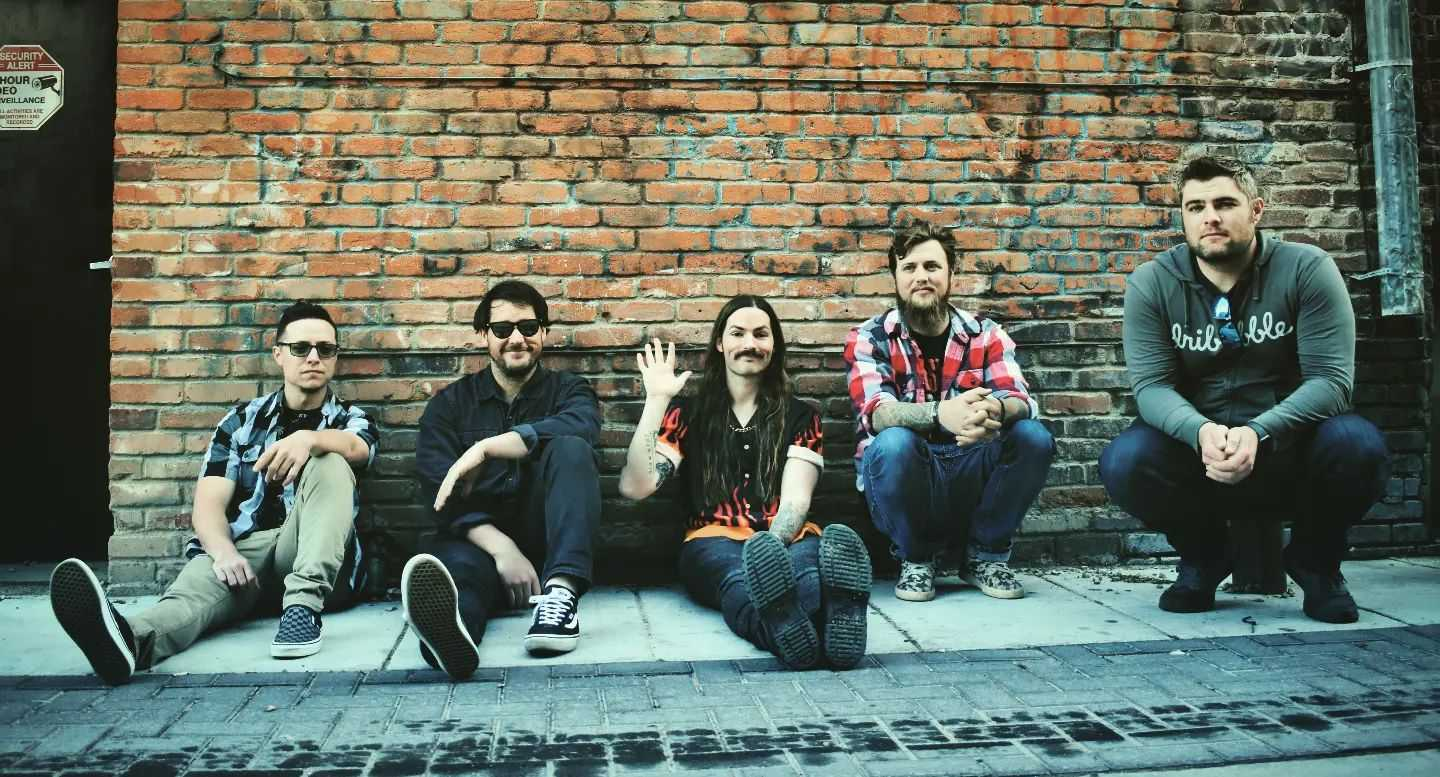
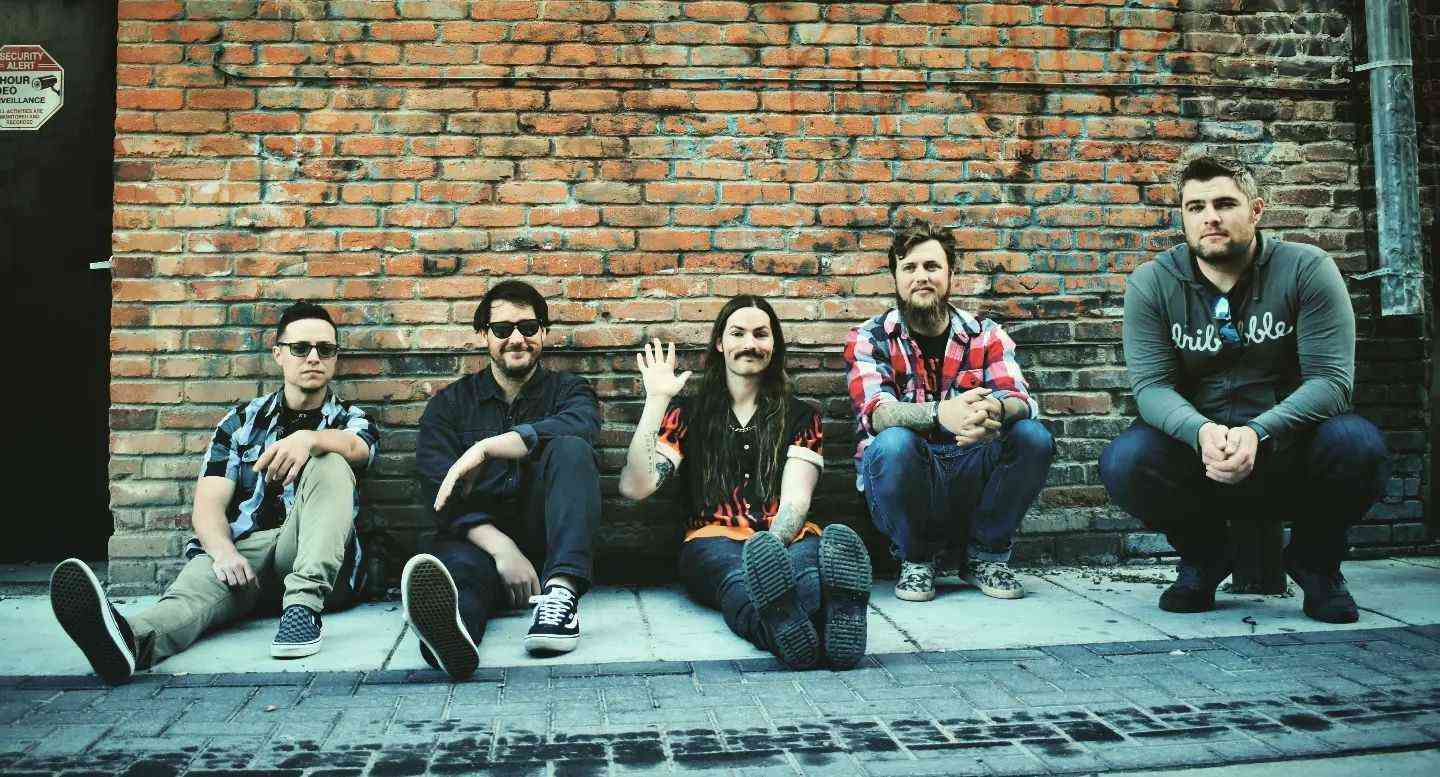
performance optimize media

diff --git a/final-project/media.html b/final-project/media.html
@@ -4,13 +4,13 @@
     <title>Marcus Lance | Project Site Plan</title>
     <meta name="description" content="2-Day Rental Band Home Page">
     <meta name="author" content="Marcus Lance">
-    <link rel="stylesheet" href="styles/media.css" >
+    <link rel="stylesheet" href="styles/media.css">
     
     <link rel="preconnect" href="https://fonts.googleapis.com">
     <link rel="preconnect" href="https://fonts.gstatic.com" crossorigin>
     <link href="https://fonts.googleapis.com/css2?family=Holtwood+One+SC&family=Notable&family=Rock+Salt&display=swap"
-        rel="stylesheet">
-    <script src="scripts/2dayscript.js" defer></script>
+          rel="stylesheet">
+    <link rel="preload" href="styles/media.css" as="style">
 </head>
 
 <body>
@@ -29,7 +29,7 @@
         
         <div class="logo">
             <a href="2dayhome.html">
-                <img src="images/new-logo.png" alt="2-day-logo">
+                <img src="images/revision-50.webp" alt="2-day-logo" >
             </a>
         </div>
         <div class="socials">
@@ -51,22 +51,69 @@
         
     <main>
         <div class="grid-container">
-            <img src="images/pic1.jpg" alt="Picture 1" loading="lazy">
-            <img src="images/pic2.jpg" alt="Picture 2" loading="lazy">
-            <img src="images/pic3.jpg" alt="Picture 3" loading="lazy">
-            <img src="images/pic4.jpg" alt="Picture 4" loading="lazy">
-            <img src="images/pic5.jpg" alt="Picture 5" loading="lazy">
-            <img src="images/pic6.jpg" alt="Picture 6" loading="lazy">
-            <img src="images/pic7.jpg" alt="Picture 7" loading="lazy">
-            <img src="images/pic8.jpg" alt="Picture 8" loading="lazy">
-            <img src="images/pic9.jpg" alt="Picture 9" loading="lazy">
-            <img src="images/pic10.jpg" alt="Picture 10" loading="lazy">
-            <img src="images/pic11.jpg" alt="Picture 11" loading="lazy">
-            <img src="images/pic12.jpg" alt="Picture 12" loading="lazy">
-            <img src="images/pic13.jpg" alt="Picture 13" loading="lazy">
-            <img src="images/pic14.jpg" alt="Picture 14" loading="lazy">
-            <img src="images/pic15.jpg" alt="Picture 15" loading="lazy">
-        </div>  
+            <picture>
+                <source srcset="images/pic1-50.webp" type="image/webp">
+                <img src="images/pic1.jpg" alt="Picture 1" loading="lazy">
+            </picture>
+            <picture>
+                <source srcset="images/pic2-50.webp" type="image/webp">
+                <img src="images/pic2.jpg" alt="Picture 2" loading="lazy">
+            </picture>
+            <picture>
+                <source srcset="images/pic3-50.webp" type="image/webp">
+                <img src="images/pic3.jpg" alt="Picture 3" loading="lazy">
+            </picture>
+            <picture>
+                <source srcset="images/pic4-50.webp" type="image/webp">
+                <img src="images/pic4.jpg" alt="Picture 4" loading="lazy">
+            </picture>
+            <picture>
+                <source srcset="images/pic5-50.webp" type="image/webp">
+                <img src="images/pic5.jpg" alt="Picture 5" loading="lazy">
+            </picture>
+            <picture>
+                <source srcset="images/pic6-50.webp" type="image/webp">
+                <img src="images/pic6.jpg" alt="Picture 6" loading="lazy">
+            </picture>
+            <picture>
+                <source srcset="images/pic7-50.webp" type="image/webp">
+                <img src="images/pic7.jpg" alt="Picture 7" loading="lazy">
+            </picture>
+            <picture>
+                <source srcset="images/pic8-50.webp" type="image/webp">
+                <img src="images/pic8.jpg" alt="Picture 8" loading="lazy">
+            </picture>
+            <picture>
+                <source srcset="images/pic9-50.webp" type="image/webp">
+                <img src="images/pic9.jpg" alt="Picture 9" loading="lazy">
+            </picture>
+            <picture>
+                <source srcset="images/pic10-50.webp" type="image/webp">
+                <img src="images/pic10.jpg" alt="Picture 10" loading="lazy">
+            </picture>
+            <picture>
+                <source srcset="images/pic11-50.webp" type="image/webp">
+                <img src="images/pic11.jpg" alt="Picture 11" loading="lazy">
+            </picture>
+            <picture>
+                <source srcset="images/pic12-50.webp" type="image/webp">
+                <img src="images/pic12.jpg" alt="Picture 12" loading="lazy">
+            </picture>
+            <picture>
+                <source srcset="images/pic13-50.webp" type="image/webp">
+                <img src="images/pic13.jpg" alt="Picture 13" loading="lazy">
+            </picture>
+            <picture>
+                <source srcset="images/pic14-50.webp" type="image/webp">
+                <img src="images/pic14.jpg" alt="Picture 14" loading="lazy">
+            </picture>
+            <picture>
+                <source srcset="images/pic15-50.webp" type="image/webp">
+                <img src="images/pic15.jpg" alt="Picture 15" loading="lazy">
+            </picture>
+            
+        </div>
+        
     </main>
 
 

diff --git a/final-project/styles/media.css b/final-project/styles/media.css
@@ -111,7 +111,7 @@ header {
 .grid-container img {
     width: 100%;
     /* Make images fill the grid cell */
-    max-width: 500px;
+
     /* Adjust maximum width */
     height: auto;
     /* Maintain aspect ratio */
@@ -123,32 +123,27 @@ header {
 
 @media (max-width: 1400px) {
     .navigation a {
-        width: 35%;
-        /* Smaller font size for mobile */
-    }
-
-    header {
-        padding: 1px;
+        width: auto;
+        /* Let items size automatically */
+        font-size: 24px;
+        /* Reduce font size for better readability */
     }
 
     .grid-container {
         grid-template-columns: repeat(2, 1fr);
-        /* 2 columns for mobile */
-        grid-template-rows: repeat(10, minmax(200px, 1fr));
-        /* Adjust rows for smaller screens */
-        max-width: 90%;
-        /* Set max width to 90% for responsiveness */
-        margin: 20px auto;
-        /* Center the grid container */
+        /* 2 columns */
+        gap: 10px;
+        /* Reduce gap to minimize space usage */
     }
 
     .sociallinks img {
-        width: 50%
-            /* Smaller social icons */
+        width: 40px;
+        /* Adjust size to reduce load */
     }
 
     .logo img {
-        width: 100%;
-        /* Logo responsive */
+        max-width: 300px;
+        /* Set a maximum width for logo */
+
     }
 }
